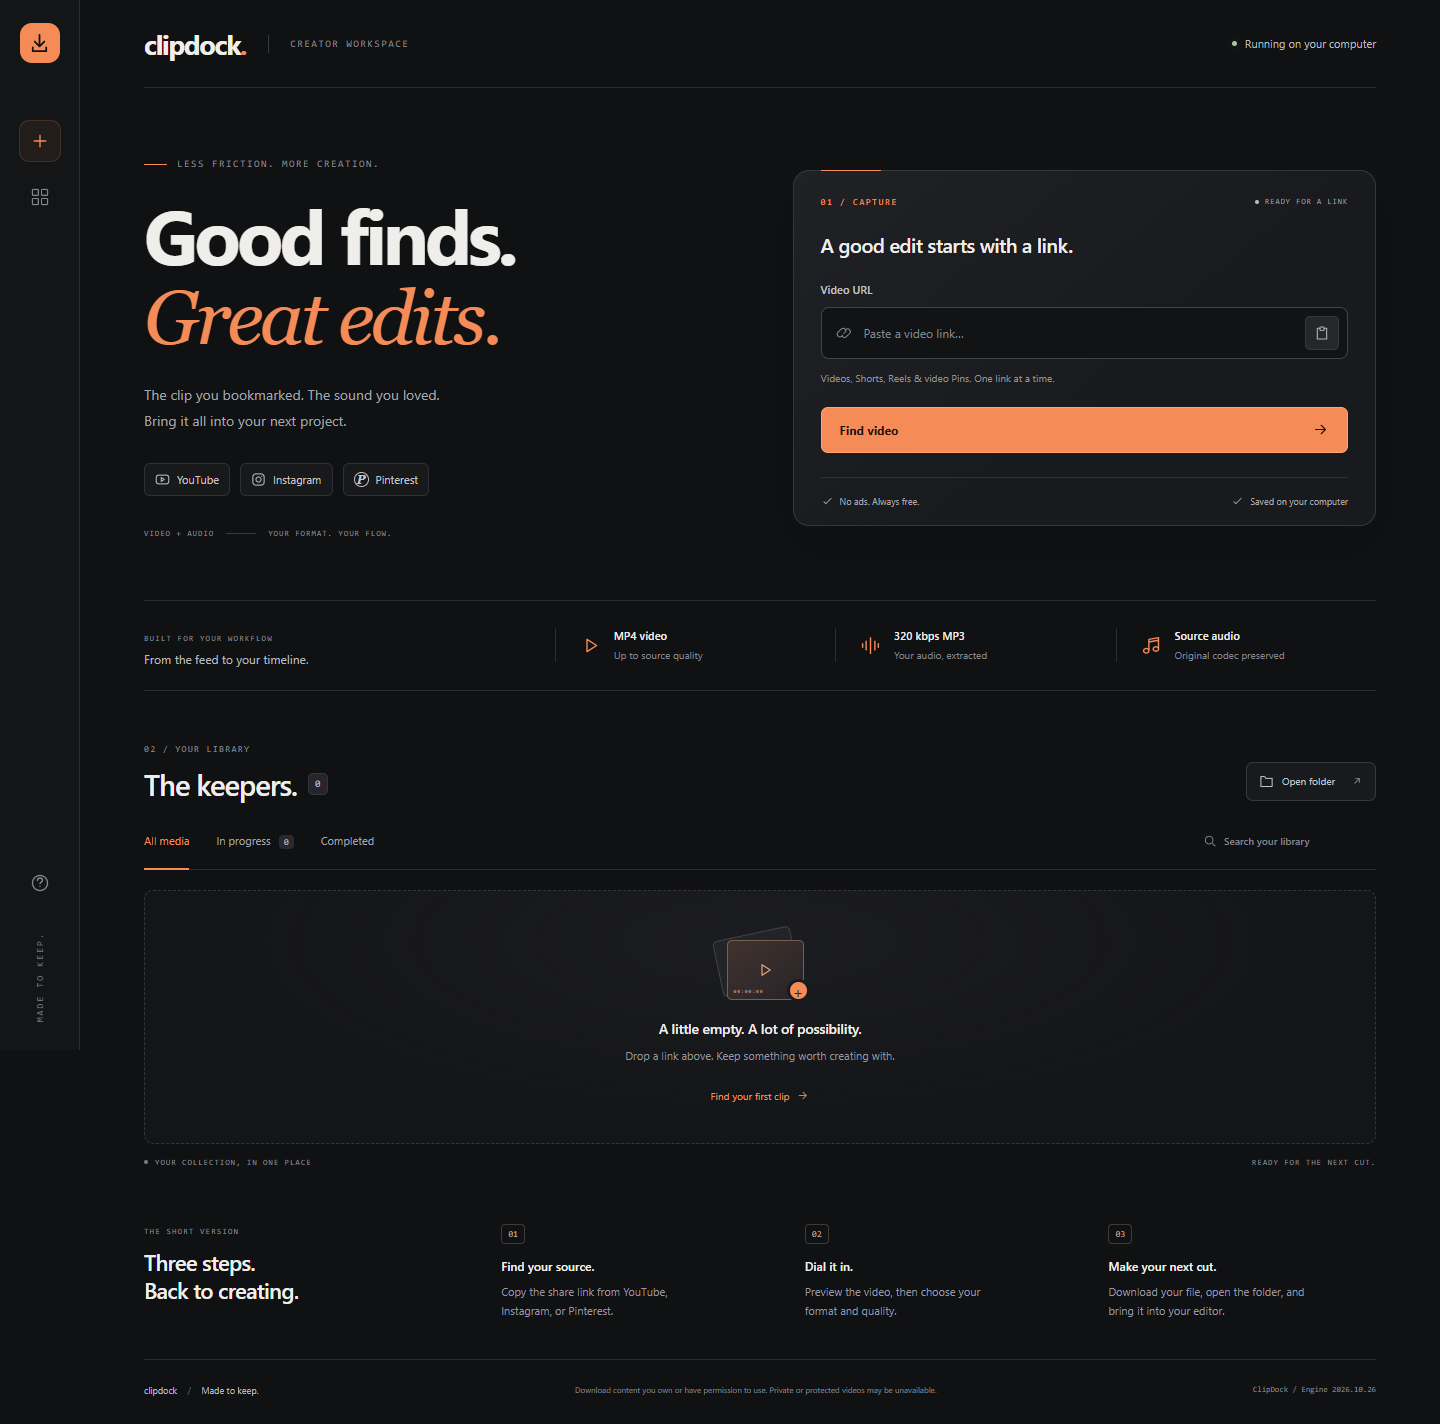
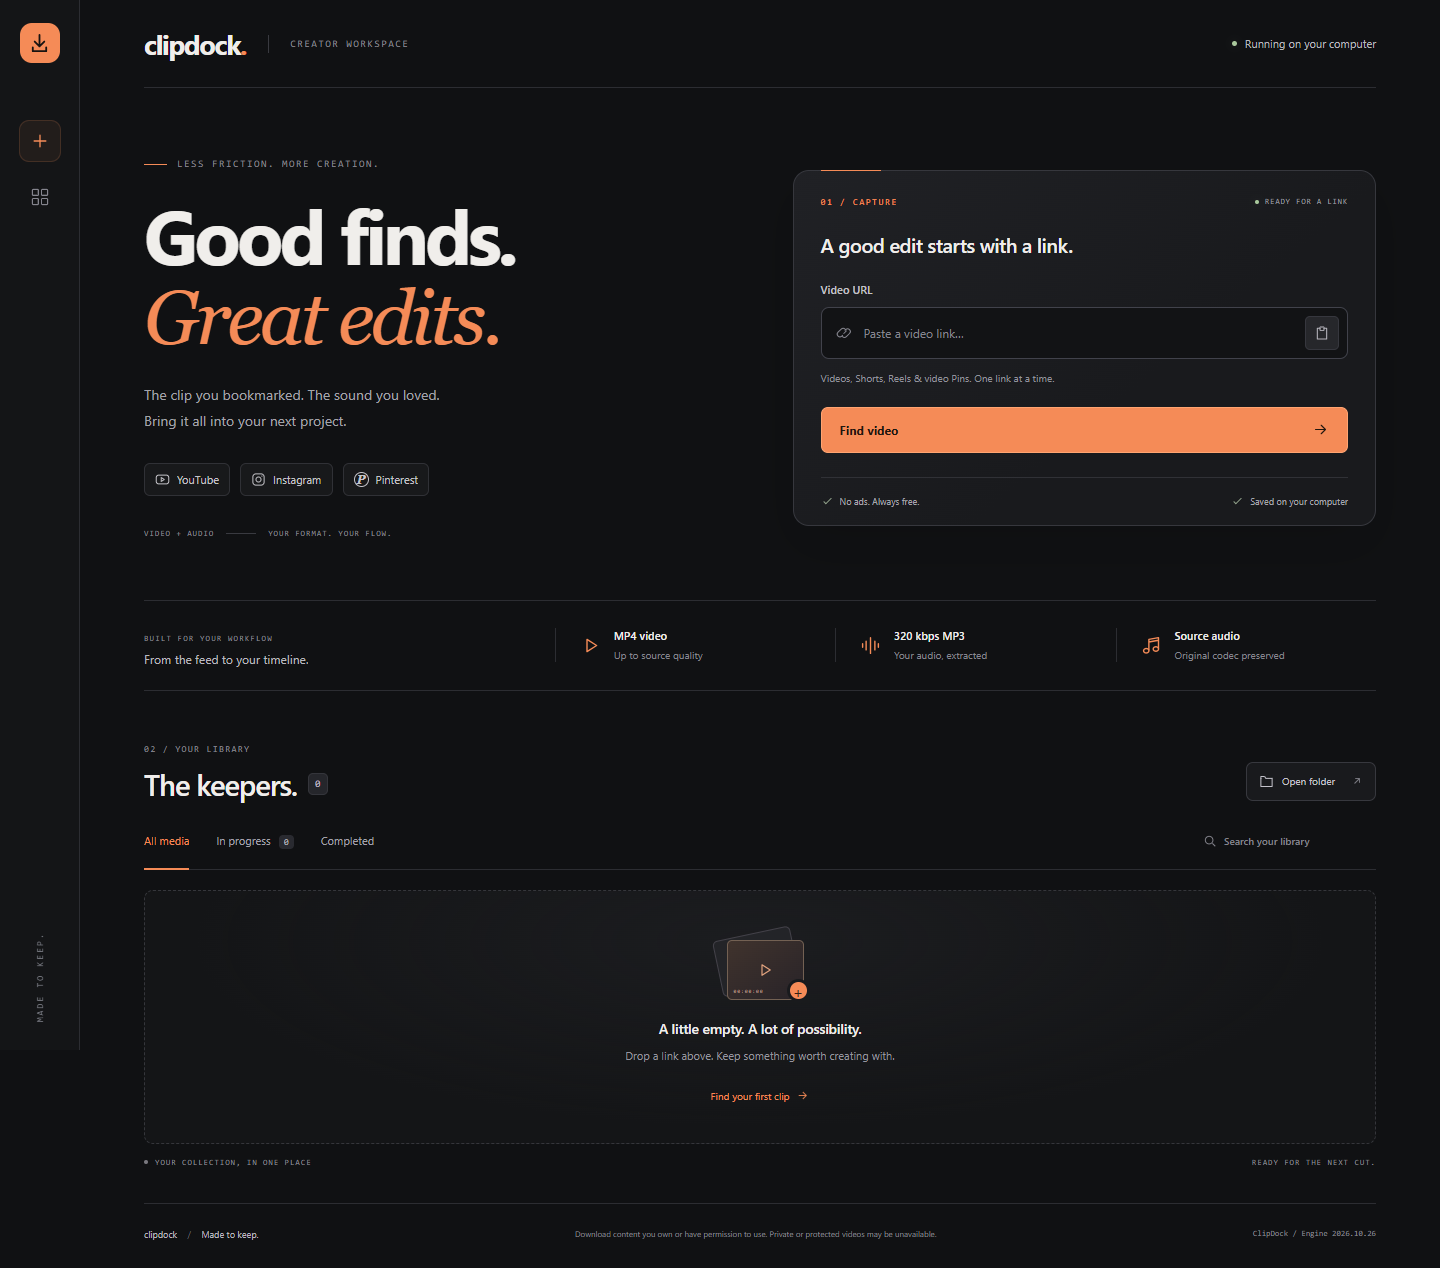
style: remove the three-step onboarding section

diff --git a/clipdock/static/index.html b/clipdock/static/index.html
@@ -24,7 +24,6 @@
   <symbol id="music" viewBox="0 0 24 24"><path d="M9 17V5l11-2v12M9 8l11-2"/><ellipse cx="6" cy="18" rx="3" ry="2.5"/><ellipse cx="17" cy="16" rx="3" ry="2.5"/></symbol>
   <symbol id="grid" viewBox="0 0 24 24"><rect x="3" y="3" width="7" height="7" rx="1"/><rect x="14" y="3" width="7" height="7" rx="1"/><rect x="3" y="14" width="7" height="7" rx="1"/><rect x="14" y="14" width="7" height="7" rx="1"/></symbol>
   <symbol id="plus" viewBox="0 0 24 24"><path d="M12 5v14M5 12h14"/></symbol>
-  <symbol id="help" viewBox="0 0 24 24"><circle cx="12" cy="12" r="9"/><path d="M9 9a3 3 0 0 1 6 0c0 2-3 2-3 4m0 3v.1"/></symbol>
   <symbol id="search" viewBox="0 0 24 24"><circle cx="10.5" cy="10.5" r="6.5"/><path d="m16 16 5 5"/></symbol>
   <symbol id="clipboard" viewBox="0 0 24 24"><path d="M9 5H5v16h14V5h-4"/><rect x="9" y="3" width="6" height="5" rx="1"/></symbol>
   <symbol id="youtube" viewBox="0 0 24 24"><rect x="2" y="5" width="20" height="14" rx="4"/><path d="m10 9 5 3-5 3z"/></symbol>
@@ -34,7 +33,6 @@
 <aside class="rail" aria-label="Workspace navigation">
   <a class="rail-logo" href="#workspace" aria-label="ClipDock home"><svg class="icon"><use href="#download"/></svg></a>
   <nav><a class="rail-link selected" href="#workspace" aria-label="New download" title="New download"><svg class="icon"><use href="#plus"/></svg></a><a class="rail-link" href="#library" aria-label="Media library" title="Media library"><svg class="icon"><use href="#grid"/></svg></a></nav>
-  <a class="rail-link rail-help" href="#how-it-works" aria-label="How it works" title="How it works"><svg class="icon"><use href="#help"/></svg></a>
   <span class="rail-caption" aria-hidden="true">MADE TO KEEP.</span>
 </aside>
 <div class="shell">
@@ -82,7 +80,6 @@
       <div id="empty" class="empty"><div class="empty-art" aria-hidden="true"><div class="frame-back"></div><div class="frame-front"><svg class="icon"><use href="#play"/></svg><span>00:00:00</span></div><div class="frame-plus">+</div></div><h3>A little empty. A lot of possibility.</h3><p>Drop your first link above. Keep something worth creating with.</p><a class="empty-action" href="#url">Find your first clip <svg class="icon"><use href="#arrow"/></svg></a></div>
       <div class="library-caption"><span><i></i> YOUR COLLECTION, IN ONE PLACE</span><span>READY FOR THE NEXT CUT.</span></div>
     </section>
-    <section id="how-it-works" class="how" aria-label="How ClipDock works"><div class="how-intro"><span class="eyebrow">THE SHORT VERSION</span><h2>Three steps.<br> Back to creating.</h2></div><div class="how-step"><span class="step-number">01</span><h3>Find your source.</h3><p>Copy the share link from YouTube, Instagram, or Pinterest.</p></div><div class="how-step"><span class="step-number">02</span><h3>Dial it in.</h3><p>Preview the video, then choose your format and quality.</p></div><div class="how-step"><span class="step-number">03</span><h3>Make your next cut.</h3><p id="save-instruction">Download your file, open the folder, and bring it into your editor.</p></div></section>
   </main>
   <footer><span class="footer-brand">clipdock<span> / </span>Made to keep.</span><p>Download content you own or have permission to use. Private or protected videos may be unavailable.</p><span id="engine-label">ClipDock / Local edition</span></footer>
 </div>

diff --git a/clipdock/static/style.css b/clipdock/static/style.css
@@ -27,8 +27,7 @@ button:focus-visible, a:focus-visible, input:focus-visible, select:focus-visible
 .rail-link { width: 42px; height: 42px; display: grid; place-items: center; color: var(--subtle); border: 1px solid transparent; border-radius: 10px; text-decoration: none; }
 .rail-link:hover { background: var(--raised); color: var(--ink); }
 .rail-link.selected { color: var(--accent); background: #f58b5710; border-color: #f58b5728; }
-.rail-help { margin-top: auto; }
-.rail-caption { font: 9px var(--mono); letter-spacing: 2px; color: #777981; writing-mode: vertical-rl; transform: rotate(180deg); margin: 28px 0 5px; }
+.rail-caption { font: 9px var(--mono); letter-spacing: 2px; color: #777981; writing-mode: vertical-rl; transform: rotate(180deg); margin: auto 0 5px; }
 .shell { max-width: 1584px; margin: 0 auto; padding: 0 64px 0 144px; }
 .topbar { height: 88px; border-bottom: 1px solid var(--line); display: flex; align-items: center; gap: 21px; }
 .brand { color: var(--ink); text-decoration: none; font-size: 27px; font-weight: 750; letter-spacing: -1.3px; display: flex; align-items: flex-start; }
@@ -155,14 +154,7 @@ select:disabled { color: var(--muted); opacity: 1; }
 .progress progress::-webkit-progress-bar { background: #303138; border-radius: 3px; }
 .progress progress::-webkit-progress-value { background: var(--accent); border-radius: 3px; }
 .progress progress::-moz-progress-bar { background: var(--accent); border-radius: 3px; }
-.how { display: grid; grid-template-columns: 1.2fr repeat(3, 1fr); gap: 36px; padding: 50px 0 38px; border-bottom: 1px solid var(--line); }
-.how-intro .eyebrow { font-size: 8px; letter-spacing: 1.2px; }
-.how h2 { margin: 10px 0 0; font-size: 22px; line-height: 1.3; letter-spacing: -.7px; font-weight: 500; }
-.how-step { padding-top: 3px; }
-.step-number { color: #b6a093; font: 9px var(--mono); border: 1px solid #403a37; border-radius: 4px; padding: 4px 6px; }
-.how h3 { font-size: 12px; font-weight: 500; margin: 17px 0 8px; }
-.how p { font-size: 11px; color: #9896a0; line-height: 1.8; margin: 0; max-width: 210px; }
-footer { display: flex; align-items: center; justify-content: space-between; gap: 24px; padding: 22px 0 26px; color: var(--subtle); font-size: 9px; line-height: 1.8; }
+footer { display: flex; align-items: center; justify-content: space-between; gap: 24px; margin-top: 36px; border-top: 1px solid var(--line); padding: 22px 0 26px; color: var(--subtle); font-size: 9px; line-height: 1.8; }
 .footer-brand { color: #b9b6bf; white-space: nowrap; }
 .footer-brand span { color: #67666e; padding: 0 8px; }
 footer p { margin: 0; max-width: 440px; text-align: center; font-size: 8px; }

diff --git a/clipdock/static/mobile.css b/clipdock/static/mobile.css
@@ -8,7 +8,6 @@
   .workflow-strip { grid-template-columns: 1.3fr repeat(3, 1fr); gap: 12px; }
   .workflow-format { padding-left: 15px; gap: 10px; }
   .workflow-format span { font-size: 9px; }
-  .how { gap: 25px; }
 }
 @media (max-width: 960px) {
   .rail { width: 64px; }
@@ -31,9 +30,6 @@
   .workflow-intro { grid-column: 1 / -1; display: flex; align-items: center; justify-content: space-between; gap: 15px; }
   .workflow-intro p { margin: 0; font-size: 11px; }
   .workflow-format { border-left: 0; padding-left: 0; }
-  .how { grid-template-columns: repeat(3, 1fr); }
-  .how-intro { grid-column: 1 / -1; }
-  .how h2 br { display: none; }
   .job { grid-template-columns: 80px minmax(0, 1fr) 78px 85px; gap: 12px; }
   .job-thumb { width: 80px; height: 58px; }
   .job-actions a, .job-actions button { padding: 9px; }
@@ -88,12 +84,6 @@
   .empty h3 { font-size: 13px; }
   .empty p { font-size: 11px; max-width: 260px; margin: auto; }
   .library-caption { font-size: 7px; letter-spacing: .6px; }
-  .how { padding-top: 39px; gap: 25px 20px; grid-template-columns: 1fr 1fr; }
-  .how-intro { grid-column: 1 / -1; }
-  .how h2 { font-size: 24px; }
-  .how p { font-size: 11px; }
-  .how-step:last-child { grid-column: 1 / -1; }
-  .how-step:last-child p { max-width: 330px; }
   .job { grid-template-columns: 68px minmax(0, 1fr); gap: 10px 14px; padding: 18px 0; }
   .job-thumb { width: 68px; height: 58px; grid-row: 1; align-self: start; }
   .job-main { grid-column: 2; }

diff --git a/clipdock/static/app.js b/clipdock/static/app.js
@@ -28,7 +28,6 @@ async function initialize() {
     if (config.hosted) {
       $('open-folder').hidden = true;
       $('privacy-label').textContent = 'No installation needed';
-      $('save-instruction').textContent = 'When it is ready, tap Save file to download it to your device.';
       $('hosted-limits').hidden = false;
       $('hosted-limits').textContent = 'Free service: videos up to 10 minutes / 100 MB. Download your file within 1 hour. The service may need a minute to wake up.';
     }
@@ -129,7 +128,7 @@ async function poll() {
   setTimeout(poll, delay);
 }
 function updateNavigation() {
-  const target = ['#library', '#how-it-works'].includes(location.hash) ? location.hash : '#workspace';
+  const target = location.hash === '#library' ? '#library' : '#workspace';
   document.querySelectorAll('.rail-link').forEach(link => {
     const selected = link.getAttribute('href') === target;
     link.classList.toggle('selected', selected);

diff --git a/CHANGELOG.md b/CHANGELOG.md
@@ -7,6 +7,7 @@
 - Paste-link button with a keyboard fallback when clipboard access is unavailable.
 - Clear source-reading and connection states, keyboard focus styles, and reduced-motion support.
 - Updated the README screenshot to match the new interface.
+- Removed the three-step onboarding section and its sidebar shortcut for a more compact workspace.
 
 ## 0.3.0 — 2026-11-01
 
